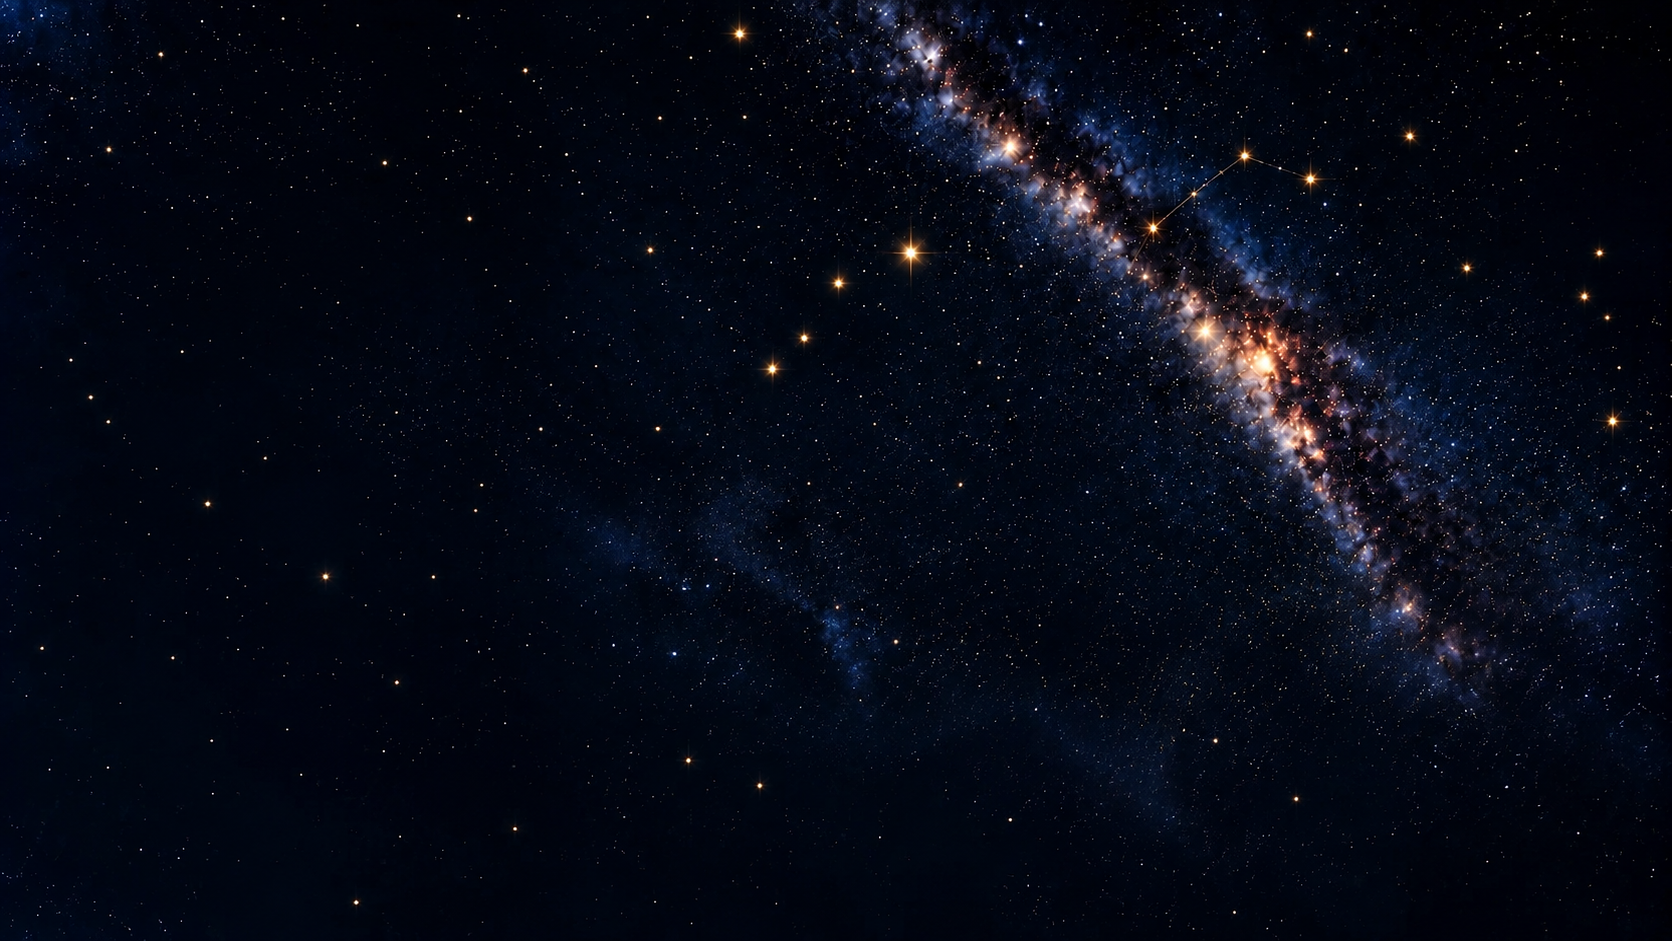
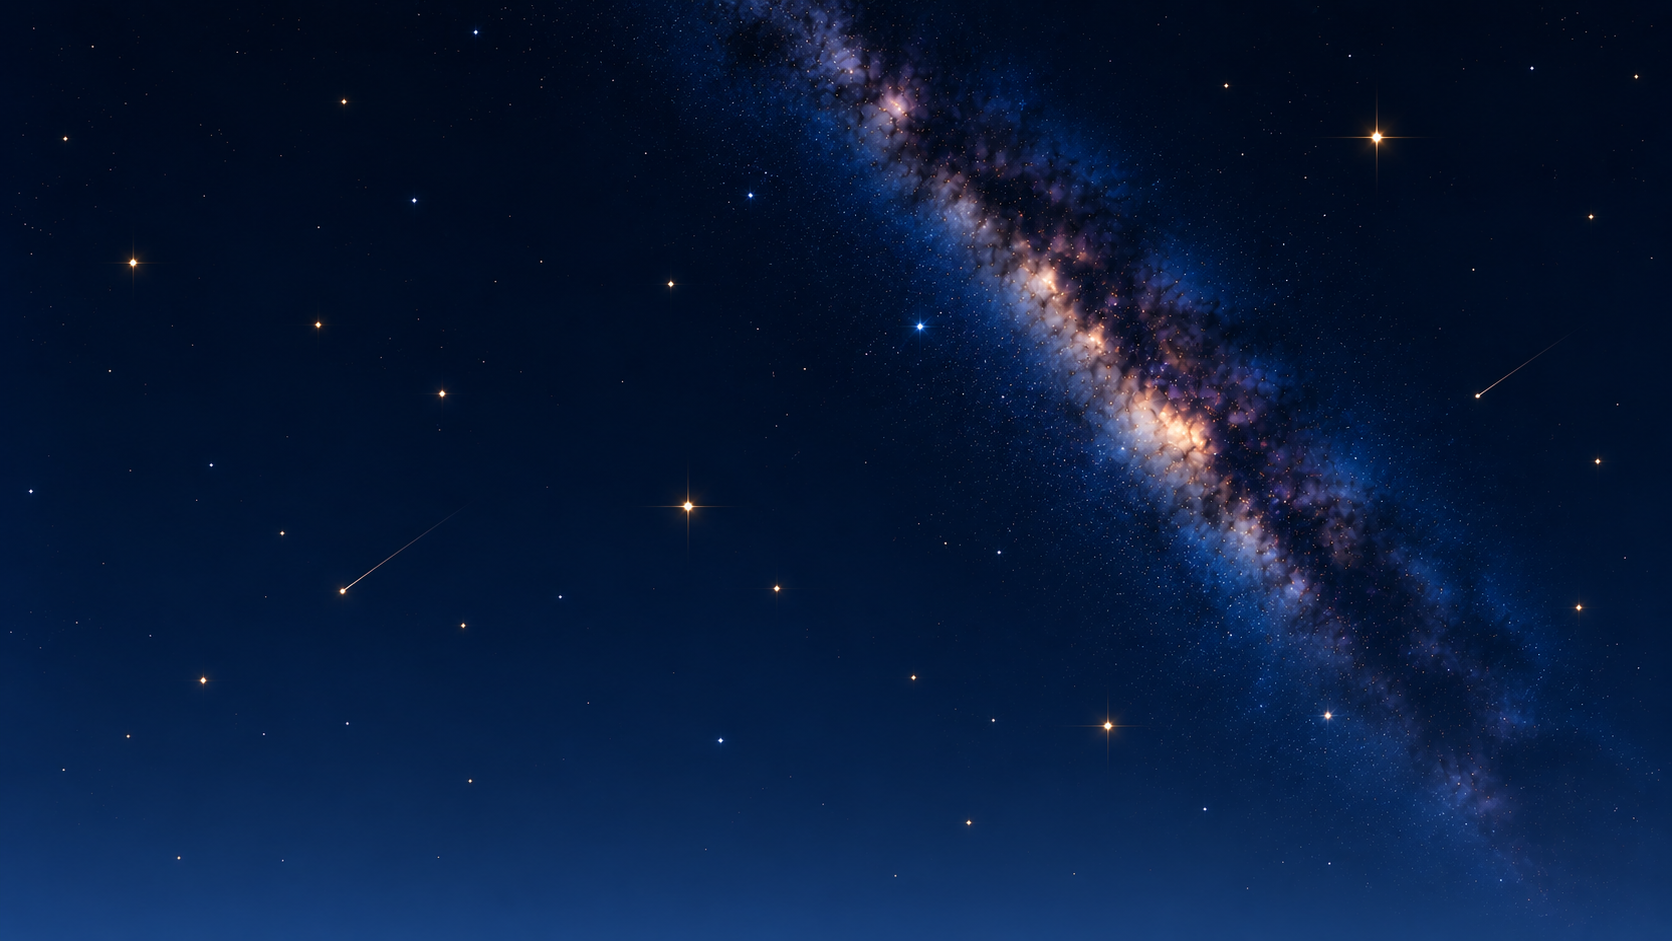
added new images and fixed te hero desktop

diff --git a/frontend/components/home/Hero.tsx b/frontend/components/home/Hero.tsx
@@ -35,12 +35,12 @@ export default function Hero() {
       <picture className="absolute inset-0 z-0">
         <source
           media="(max-width: 767px)"
-          srcSet="/images/hero/hero-desktop-no-moon.webp"
+          srcSet="/images/hero/hero-mobile.webp"
         />
 
         <source
           media="(max-width: 1023px)"
-          srcSet="/images/hero/hero-desktop-no-moon.webp"
+          srcSet="/images/hero/hero-tablet.webp"
         />
 
         <img
@@ -67,7 +67,7 @@ export default function Hero() {
         src="/images/hero/hero-moon.webp"
         alt=""
         aria-hidden="true"
-        className={`absolute left-[76%] top-[45%] z-20 w-[220px] -translate-x-1/2 transition-all duration-[2000ms] ease-out md:w-[260px] lg:w-[300px] ${
+        className={`absolute left-[84%] top-[20%] z-20 w-[220px] -translate-x-1/2 transition-all duration-[3000ms] ease-out md:w-[260px] lg:w-[300px] ${
           isVisible
             ? "translate-y-0 opacity-100"
             : "translate-y-[180px] opacity-0"
@@ -80,18 +80,25 @@ export default function Hero() {
         aria-hidden="true"
         className="pointer-events-none absolute inset-0 z-25 h-full w-full object-cover"
       />
+      <div
+        className="pointer-events-none absolute inset-x-0 bottom-0 z-[26] h-[260px]"
+        style={{
+          background:
+            "linear-gradient(to top, rgba(3, 12, 28, 0.82) 0%, rgba(3, 12, 28, 0.58) 45%, rgba(3, 12, 28, 0.18) 75%, transparent 100%)",
+        }}
+      />
 
       {/* Temporary Hero Content */}
-      <div className="relative z-30 flex min-h-screen items-center">
-        <div className="w-full max-w-[1600px] px-6 pt-28 sm:px-10 lg:px-16 lg:pt-24 xl:px-20">
-          <div className="ml-[5%] max-w-[850px] -translate-y-6">
+      <div className="relative z-30 flex min-h-screen">
+        <div className="w-full max-w-[1600px] px-6 pt-32 pb-20 sm:px-10 sm:pt-36 lg:px-16 lg:pt-40 xl:px-20">
+          <div className="w-full max-w-[850px] lg:ml-[5%]">
             {/* Eyebrow */}
             <p className="mb-5 text-xs font-medium uppercase tracking-[0.35em] text-[#E8B85C] sm:text-sm">
               ALIGN&nbsp;&nbsp;·&nbsp;&nbsp;UNDERSTAND&nbsp;&nbsp;·&nbsp;&nbsp;EMPOWER
             </p>
 
             {/* Main Heading */}
-            <h1 className="mt-5 max-w-[780px] font-serif text-[clamp(3.5rem,5vw,5rem)] leading-[0.95] tracking-[-0.02em] text-[#f8f4ec]">
+            <h1 className="mt-5 max-w-[780px] font-serif text-[clamp(3rem,8vw,4.75rem)] leading-[0.96] tracking-[-0.05em] text-[#f8f4ec]">
               <span className="block">Guiding You Through</span>
 
               <span className="block italic text-[#f4b94f]">the Language</span>
@@ -100,14 +107,15 @@ export default function Hero() {
             </h1>
 
             {/* Description */}
-            <p className="mt-8 max-w-[560px] text-[1.05rem] leading-[1.7] text-[#f3eadc]">
+            <p className="mt-7 max-w-[540px] text-[1rem] leading-[1.75] text-[#f3eadc]">
               Personalized astrological insights for a more balanced, confident
               and purposeful life.
             </p>
 
             {/* CTA Buttons */}
-            <div className="mt-8 flex items-center gap-5 sm:flex-row">
+            <div className="mt-7 flex items-center gap-4 sm:flex-row">
               {/* Primary CTA */}
+
               <a
                 href="/consultations"
                 className="group inline-flex items-center justify-center gap-4 rounded-full bg-[#F0B957] px-6 py-3.5 font-serif text-[15px] text-[#071222] transition-all duration-300 hover:bg-[#F6C96F] sm:px-7"
@@ -122,7 +130,7 @@ export default function Hero() {
               {/* Secondary CTA */}
               <a
                 href="#services"
-                className="rounded-full border border-[#d9a441]/70 bg-[#030c1c]/30 px-8 py-4 text-[#f8f4ec] backdrop-blur-[2px] transition hover:bg-[#030c1c]/50"
+                className="group inline-flex items-center gap-3 rounded-full border border-[#d9a441]/70 bg-[#030c1c]/30 px-8 py-4 text-[#f8f4ec] backdrop-blur-[2px] transition-all duration-300 hover:bg-[#030c1c]/50"
               >
                 <span>Explore Services</span>
 
@@ -132,74 +140,79 @@ export default function Hero() {
               </a>
             </div>
 
-            <div className="mt-10 flex w-full max-w-[780px] items-stretch">
+            <div className="relative mt-10 flex w-full max-w-[700px] overflow-hidden border-y border-[#c9963e]/20 py-4 sm:flex sm:items-stretch">
               {" "}
+              <div
+                className="pointer-events-none absolute inset-0 -z-10"
+                style={{
+                  background:
+                    "linear-gradient(90deg, rgba(3, 12, 28, 0.72) 0%, rgba(3, 12, 28, 0.48) 55%, rgba(3, 12, 28, 0.12) 100%)",
+                }}
+              />
               {/* Clarity */}
-              <div className="flex flex-1 flex-col items-start px-5 first:pl-0">
+              <div className="flex w-1/2 flex-col items-start px-4 py-3 sm:w-auto sm:flex-1 sm:py-0 first:pl-0">
+                {" "}
                 <img
                   src="/images/decorators/lotus.svg"
                   alt=""
-                  className="mb-3 h-8 w-8"
+                  className="mb-2 h-7 w-7"
                 />
-
-                <h3 className="font-serif text-lg text-[#f6efe4]">Clarity</h3>
-
-                <p className="mt-1 text-sm leading-5 text-[#d8cfc1]">
+                <h3 className="font-serif font-medium text-base text-[#f6efe4]">
+                  Clarity
+                </h3>
+                <p className="mt-1 text-xs leading-5 text-[#c9c0b2] sm:text-sm">
                   for your present
                 </p>
               </div>
               {/* Divider */}
-              <div className="my-1 w-px bg-[#c9963e]/30" />
+              <div className="my-1 h-12 w-px bg-[#c9963e]/25" />
               {/* Guidance */}
-              <div className="flex flex-1 flex-col items-start px-5">
+              <div className="flex w-1/2 flex-col items-start px-4 py-3 sm:w-auto sm:flex-1 sm:py-0">
+                {" "}
                 <img
                   src="/images/decorators/moon.svg"
                   alt=""
-                  className="mb-3 h-8 w-8"
+                  className="mb-2 h-7 w-7"
                 />
-
-                <h3 className="font-serif text-base text-[#f6efe4] sm:text-lg">
+                <h3 className="font-serif font-medium text-base text-[#f6efe4]">
                   Guidance
                 </h3>
-
-                <p className="mt-1 text-xs leading-5 text-[#d8cfc1] sm:text-sm">
+                <p className="mt-1 text-xs leading-5 text-[#c9c0b2] sm:text-sm">
                   for your future
                 </p>
               </div>
               {/* Divider */}
-              <div className="my-1 w-px bg-[#c9963e]/30" />
+              <div className="my-1 h-12 w-px bg-[#c9963e]/25" />
               {/* Balance */}
-              <div className="flex flex-1 flex-col items-start px-5">
+              <div className="flex w-1/2 flex-col items-start px-4 py-3 sm:w-auto sm:flex-1 sm:py-0">
+                {" "}
                 <img
                   src="/images/decorators/star.svg"
                   alt=""
-                  className="mb-3 h-8 w-8"
+                  className="mb-2 h-7 w-7"
                 />
-
-                <h3 className="font-serif text-base text-[#f6efe4] sm:text-lg">
+                <h3 className="font-serif font-medium text-base text-[#f6efe4]">
                   Balance
                 </h3>
-
-                <p className="mt-1 text-xs leading-5 text-[#d8cfc1] sm:text-sm">
+                <p className="mt-1 text-xs leading-5 text-[#c9c0b2] sm:text-sm">
                   in your journey
                 </p>
               </div>
               {/* Divider */}
-              <div className="my-1 w-px bg-[#c9963e]/30" />
+              <div className="my-1 h-12 w-px bg-[#c9963e]/25" />
               {/* Fulfillment */}
-              <div className="flex flex-1 flex-col items-start px-5">
+              <div className="flex w-1/2 flex-col items-start px-4 py-3 sm:w-auto sm:flex-1 sm:py-0">
+                {" "}
                 <img
                   src="/images/decorators/sun.svg"
                   alt=""
-                  className="mb-3 h-8 w-8"
+                  className="mb-2 h-7 w-7"
                 />
-
-                <h3 className="font-serif text-base text-[#f6efe4] sm:text-lg">
-                  A More Fulfilling
+                <h3 className="font-serif font-medium text-base text-[#f6efe4]">
+                  Abundance
                 </h3>
-
-                <p className="mt-1 text-xs leading-5 text-[#d8cfc1] sm:text-sm">
-                  you
+                <p className="mt-1 text-xs leading-5 text-[#c9c0b2] sm:text-sm">
+                  in life and love
                 </p>
               </div>
             </div>

diff --git a/frontend/components/layout/Navbar.tsx b/frontend/components/layout/Navbar.tsx
@@ -15,7 +15,7 @@ export default function Navbar() {
   const [isMenuOpen, setIsMenuOpen] = useState(false);
 
   return (
-    <header className="absolute inset-x-0 top-0 z-50 bg-[#00030e]/30">
+    <header className="absolute inset-x-0 top-0 z-50 ">
       <nav className="mx-auto flex max-w-[1600px] items-center justify-between px-6 py-5 lg:px-10 xl:px-14">
         {/* Brand */}
         <a
